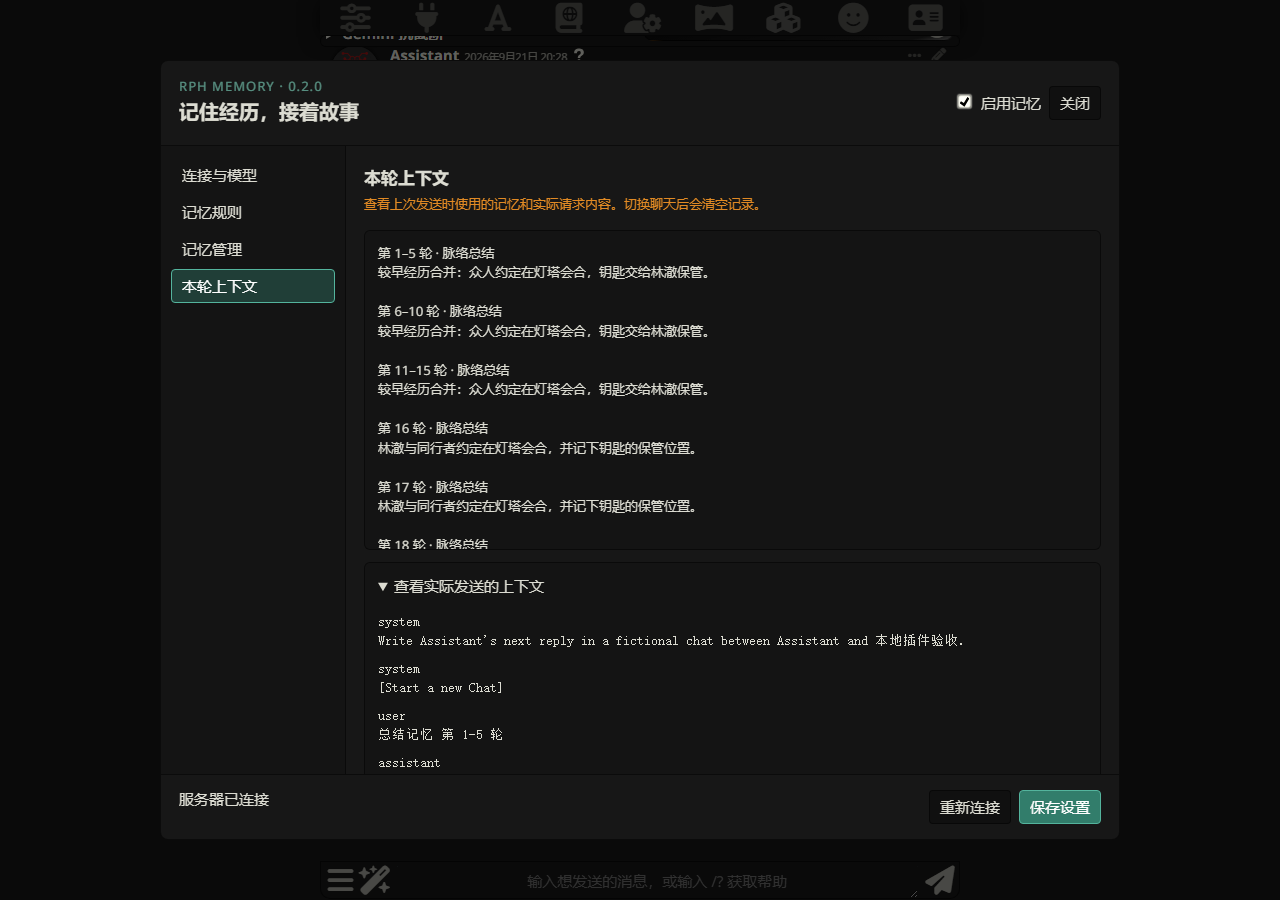
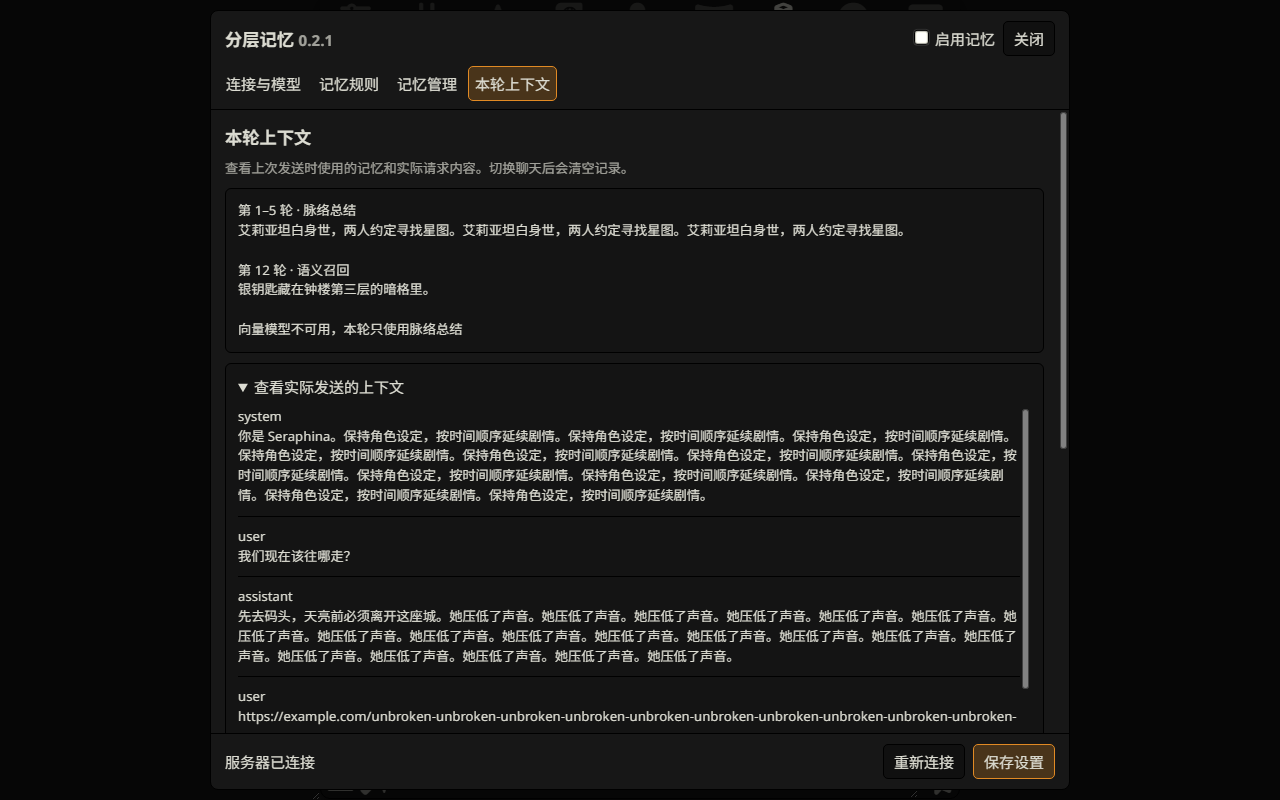
Fix settings layout in SillyTavern and on mobile (v0.2.2)

diff --git a/client/style.css b/client/style.css
@@ -1,61 +1,47 @@
-.lm-launcher { display: flex; align-items: center; gap: 10px; margin: 8px 0; }
-.lm-launcher small, #layered-memory .lm-muted, #layered-memory .lm-note, #layered-memory small { color: var(--SmartThemeQuoteColor, #aeb5bb); font-size: 13px; line-height: 1.45; }
-#layered-memory { width: min(960px, calc(100vw - 24px)); max-width: 960px; height: min(780px, calc(100dvh - 24px)); padding: 0; color: var(--SmartThemeBodyColor, #e9edf0); background: var(--SmartThemeBlurTintColor, #20252b); border: 1px solid var(--SmartThemeBorderColor, #69727b); border-radius: 8px; }
-#layered-memory::backdrop { background: rgb(0 0 0 / 55%); }
+/* 酒馆的 .menu_button 宽度是 min-content，中文会被压成一字宽，这里放开 */
+.menu_button.lm-launcher { width: auto; flex-wrap: wrap; justify-content: space-between; gap: 0 10px; text-align: start; }
+.lm-launcher small { overflow-wrap: anywhere; }
+#layered-memory { --lm-line: 1px solid var(--SmartThemeBorderColor); --lm-accent: var(--SmartThemeQuoteColor); width: min(860px, 100dvw); height: min(780px, 100dvh); max-width: none; max-height: none; padding: 0; color: var(--SmartThemeBodyColor); accent-color: var(--lm-accent); background: var(--SmartThemeBlurTintColor); backdrop-filter: blur(calc(var(--SmartThemeBlurStrength) * 2)); border: var(--lm-line); border-radius: 8px; }
+#layered-memory::backdrop { background: rgb(0 0 0 / 70%); }
 #layered-memory[open] { display: flex; flex-direction: column; }
-#layered-memory * { box-sizing: border-box; letter-spacing: 0; }
-#layered-memory button, #layered-memory input, #layered-memory select, #layered-memory textarea { font: inherit; }
-#layered-memory button { min-height: 32px; padding: 6px 10px; cursor: pointer; color: inherit; background: var(--black30a, #22272d); border: 1px solid var(--SmartThemeBorderColor, #69727b); border-radius: 4px; }
-#layered-memory button:hover, #layered-memory button:focus-visible { border-color: #73c3ae; }
-#layered-memory button:disabled { opacity: .45; cursor: default; }
-#layered-memory .lm-primary { color: #fff; background: #327d6b; border-color: #54b49d; }
-#layered-memory .lm-danger { color: #ffd7d2; border-color: #a6544d; }
-#layered-memory .lm-header, #layered-memory .lm-footer { display: flex; align-items: center; justify-content: space-between; gap: 14px; padding: 14px 18px; border-bottom: 1px solid var(--SmartThemeBorderColor, #69727b); }
-#layered-memory .lm-header h2, #layered-memory h3 { margin: 2px 0 6px; }
-#layered-memory .lm-header h2 { font-size: 20px; }
-#layered-memory h3 { font-size: 17px; }
-#layered-memory .lm-header small { color: #73c3ae; letter-spacing: .08em; }
-#layered-memory .lm-actions { display: flex; align-items: center; gap: 8px; flex-wrap: wrap; }
-#layered-memory .lm-switch, #layered-memory .lm-inline { display: inline-flex; align-items: center; gap: 6px; }
-#layered-memory .lm-switch { white-space: nowrap; }
-#layered-memory .lm-layout { display: grid; grid-template-columns: 185px minmax(0, 1fr); min-height: 0; flex: 1; }
-#layered-memory .lm-nav { display: flex; flex-direction: column; gap: 3px; padding: 12px 10px; border-right: 1px solid var(--SmartThemeBorderColor, #69727b); background: rgb(0 0 0 / 12%); }
-#layered-memory .lm-nav button { width: 100%; text-align: left; background: transparent; border-color: transparent; }
-#layered-memory .lm-nav button[aria-pressed=true] { color: #fff; background: #327d6b66; border-color: #54b49d; }
-#layered-memory .lm-content { min-width: 0; overflow: auto; padding: 18px; }
-#layered-memory .lm-content > section { max-width: 800px; margin: 0 auto; }
-#layered-memory .lm-card { margin: 12px 0; padding: 13px; border: 1px solid var(--SmartThemeBorderColor, #69727b); border-radius: 6px; background: rgb(0 0 0 / 10%); }
-#layered-memory fieldset { min-width: 0; margin: 0; padding: 13px; border: 1px solid var(--SmartThemeBorderColor, #69727b); border-radius: 6px; }
-#layered-memory legend { padding: 0 6px; font-weight: 700; }
-#layered-memory .lm-provider-grid { display: grid; grid-template-columns: repeat(2, minmax(0, 1fr)); gap: 12px; }
-#layered-memory label:not(.lm-inline):not(.lm-switch):not(.lm-mode) { display: flex; flex-direction: column; gap: 5px; margin: 10px 0; }
-#layered-memory input:not([type=checkbox]):not([type=radio]), #layered-memory select, #layered-memory textarea { width: 100%; min-width: 0; padding: 7px; color: inherit; background: var(--black30a, #22272d); border: 1px solid var(--SmartThemeBorderColor, #69727b); border-radius: 4px; }
-#layered-memory input[type=range] { accent-color: #54b49d; }
-#layered-memory output { display: inline-block; min-width: 2ch; color: #73c3ae; }
-#layered-memory .lm-mode-grid { display: grid; grid-template-columns: repeat(2, minmax(0, 1fr)); gap: 10px; }
-#layered-memory .lm-mode { display: grid; grid-template-columns: auto 1fr; gap: 4px 8px; padding: 12px; border: 1px solid var(--SmartThemeBorderColor, #69727b); border-radius: 6px; cursor: pointer; }
-#layered-memory .lm-mode span { grid-column: 2; color: var(--SmartThemeQuoteColor, #aeb5bb); font-size: 13px; }
-#layered-memory .lm-rules { display: grid; grid-template-columns: repeat(3, minmax(0, 1fr)); gap: 8px; margin: 14px 0; }
-#layered-memory .lm-rules div { display: flex; flex-direction: column; gap: 4px; padding: 10px; border-left: 3px solid #54b49d; background: rgb(0 0 0 / 12%); }
-#layered-memory .lm-rules span { color: var(--SmartThemeQuoteColor, #aeb5bb); font-size: 12px; }
-#layered-memory .lm-section-heading, #layered-memory .lm-stats, #layered-memory .lm-pagination { display: flex; align-items: center; justify-content: space-between; gap: 10px; flex-wrap: wrap; }
-#layered-memory .lm-stats { justify-content: flex-start; margin: 12px 0; }
-#layered-memory .lm-stats span { padding: 7px 10px; border: 1px solid var(--SmartThemeBorderColor, #69727b); border-radius: 4px; }
-#layered-memory .lm-stats b { color: #73c3ae; }
-#layered-memory .lm-summary { margin: 10px 0; white-space: pre-wrap; overflow-wrap: anywhere; line-height: 1.55; }
-#layered-memory details > summary { cursor: pointer; }
-#layered-memory pre, #layered-memory [data-results], #layered-memory [data-used], #layered-memory [data-preview], #layered-memory [data-errors] { max-height: 320px; margin: 8px 0; white-space: pre-wrap; overflow: auto; overflow-wrap: anywhere; font-size: 13px; line-height: 1.5; }
-#layered-memory [data-errors] { color: #f19c91; }
-#layered-memory .lm-footer { border-top: 1px solid var(--SmartThemeBorderColor, #69727b); border-bottom: 0; }
+@media (max-width: 860px) { #layered-memory { height: 100dvh; border-radius: 0; } }
+#layered-memory * { margin: 0; }
+#layered-memory :is(h2, h3) { font-size: 1.15em; }
+#layered-memory :is(small, .lm-muted) { font-size: .88em; line-height: 1.45; opacity: .7; }
+#layered-memory :is(output, b) { color: var(--lm-accent); }
+#layered-memory legend { padding: 0 6px; font-weight: bold; }
+#layered-memory summary { cursor: pointer; }
+
+/* 排版：纵向堆叠、横向一行、自适应多列 */
+#layered-memory :where(section, .lm-card, [data-memories]) { display: flex; flex-direction: column; gap: 10px; }
+#layered-memory label { display: flex; flex-direction: column; gap: 5px; }
+#layered-memory .lm-inline { flex-direction: row; align-items: center; gap: 6px; cursor: pointer; }
+#layered-memory .lm-row { display: flex; flex-wrap: wrap; align-items: center; gap: 8px; }
+#layered-memory .lm-grow { flex: 1; min-width: 0; overflow-wrap: anywhere; }
+#layered-memory .lm-grid { display: grid; grid-template-columns: repeat(auto-fit, minmax(230px, 1fr)); gap: 10px; }
+#layered-memory details { display: block; }
+#layered-memory details > :not(summary) { margin-top: 10px; }
+
+/* 窗口骨架 */
+#layered-memory .lm-bar { padding: 10px 14px; }
+#layered-memory .lm-nav { flex-wrap: nowrap; gap: 4px; padding: 0 8px 8px; }
+#layered-memory .lm-content { flex: 1; min-height: 0; overflow: auto; padding: 14px; border-block: var(--lm-line); }
+#layered-memory .lm-card { min-width: 0; padding: 12px; border: var(--lm-line); border-radius: 6px; background-color: rgb(0 0 0 / 12%); }
+
+/* 控件：复选、单选、滑条沿用酒馆原生样式 */
+#layered-memory :where(button, select, textarea, input:not([type=checkbox], [type=radio], [type=range])) { padding: 6px 10px; font: inherit; color: inherit; background-color: var(--black30a); border: var(--lm-line); border-radius: 5px; }
+#layered-memory select { padding-right: 24px; }
+#layered-memory button:enabled { cursor: pointer; }
+#layered-memory button:disabled { opacity: .45; }
+#layered-memory .lm-nav button { padding-inline: 6px; text-wrap: balance; background-color: transparent; border-color: transparent; }
+#layered-memory button:enabled:is(:hover, :focus-visible) { border-color: var(--lm-accent); }
+#layered-memory :is(.lm-primary, .lm-nav [aria-pressed=true]) { background-color: color-mix(in srgb, var(--lm-accent) 25%, transparent); border-color: var(--lm-accent); }
+#layered-memory .lm-danger { color: color-mix(in srgb, var(--warning) 70%, var(--SmartThemeBodyColor)); }
+
+/* 长文本 */
+#layered-memory :is(.lm-text, .lm-log) { white-space: pre-wrap; overflow-wrap: anywhere; line-height: 1.5; }
+#layered-memory .lm-log { max-height: min(320px, 50dvh); overflow: auto; font-size: .88em; }
+#layered-memory .lm-log:empty { display: none; }
+#layered-memory [data-preview] > p + p { margin-top: 10px; padding-top: 10px; border-top: var(--lm-line); }
+#layered-memory [data-page] { text-align: center; }
 #layered-memory [hidden] { display: none; }
-@media (max-width: 680px) {
-    #layered-memory { width: calc(100vw - 12px); height: calc(100dvh - 12px); }
-    #layered-memory .lm-header, #layered-memory .lm-footer { padding: 11px 12px; }
-    #layered-memory .lm-header h2 { font-size: 17px; }
-    #layered-memory .lm-layout { grid-template-columns: 1fr; grid-template-rows: auto minmax(0, 1fr); }
-    #layered-memory .lm-nav { flex-direction: row; overflow-x: auto; padding: 7px; border-right: 0; border-bottom: 1px solid var(--SmartThemeBorderColor, #69727b); }
-    #layered-memory .lm-nav button { width: auto; flex: 0 0 auto; text-align: center; }
-    #layered-memory .lm-content { padding: 12px; }
-    #layered-memory .lm-provider-grid, #layered-memory .lm-mode-grid, #layered-memory .lm-rules { grid-template-columns: 1fr; }
-    #layered-memory .lm-mode span { grid-column: 2; }
-}

diff --git a/shared/model.js b/shared/model.js
@@ -1,5 +1,5 @@
 export const KEY = 'layered_memory';
-export const VERSION = '0.2.1';
+export const VERSION = '0.2.2';
 export const MAIN_TYPES = new Set(['normal', 'regenerate', 'swipe', 'continue']);
 export const DEFAULTS = {
     version: 2, mode: 'classic', keep: 20, concurrency: 5, rawLimit: 5,

diff --git a/ACCEPTANCE.md b/ACCEPTANCE.md
@@ -1,5 +1,15 @@
 # 分层记忆验收报告
 
+## 0.2.2 前端修整（2026-11-15）
+
+基线为 `d18dc2f`。修复酒馆 `.menu_button` 的 `width: min-content` 将中文入口压成一字宽的问题；设置页改用顶部页签、自适应表单和长文本区域，颜色沿用酒馆主题。记忆处理、请求时序与服务器接口没有改动。
+
+- 56 项自动测试通过；复查涵盖保存失败保留草稿、保存成功清空密钥输入、记忆启停失败回退及原有记忆测试。
+- 隔离的 SillyTavern 1.19.0 加载本仓库前后端，Chromium 验证 1280×800、1024×720、390×844 和 320×640 视口，并检查 Celestial Macaron 与浅色配色。7 种视口/主题组合各检查 7 个页面状态，共 49 项，没有窗口外溢或内容区横向滚动。
+- 连接、配置读写、滑条修改、保存及恢复默认使用真实插件。记忆列表、状态、原文搜索使用样例响应；上下文预览使用样例文本，未调用真实模型或执行主生成。
+- 截图见 `evidence/launcher-*.png`、`evidence/settings-*.png`、`evidence/memories-*.png` 与 `evidence/context-desktop.png`。截图取自升版前，因此仍显示 0.2.1；同名旧截图已替换。
+- 手机是浏览器视口模拟；未验证 Android/iOS 真机、用户自定义 CSS 或真实模型效果。320 像素宽时页签允许换为两行；旧版 Safari 未支持背景模糊时只显示加深遮罩。
+
 ## 0.2.1 审查与修复（2026-11-15）
 
 基线是独立仓库 `ef860c1`，保留旧版工作目录与酒馆集成项目。本轮不部署生产实例，也未调用付费模型。
@@ -31,7 +41,7 @@
 - 原提示词和非零向量编码与固定的参考输出一致；来源无法确认的消息、用户附件和近期群聊发言不会被错误覆盖。
 - 真正启动隔离的 SillyTavern 1.19.0，加载前后端，使用真实会话及 CSRF 完成 10 项接口联测，含 40 条逐轮总结、3 条合并总结及 43 条完整备份恢复。见 `evidence/server-integration.json`。
 - Chromium 151 中完成模型列表、接口测试、保存、启用、记忆编辑和启停、文件下载/恢复、原文检索及上下文预览。真实主生成请求包含旧总结、最近原文和增强召回，原聊天保留；页面脚本错误为 0。见 `evidence/browser-check.json`。
-- 桌面 1280×900 和窄屏 390×844 的四个设置分区可切换，没有面板横向溢出。见 `evidence/settings-desktop.png`、`evidence/settings-mobile.png`、`evidence/context-desktop.png`。窄屏是浏览器模拟。
+- 桌面 1280×900 和窄屏 390×844 的四个设置分区可切换，没有面板横向溢出。该轮同名截图现已替换为 0.2.2 前端修整证据；原始检查记录见 `evidence/browser-check.json`。窄屏是浏览器模拟。
 - 强制结束并重启隔离酒馆，已交付的 8 项任务自动恢复，无需前端重新连接。见 `evidence/server-restart.json`。未保存结果的在途请求可能重复调用。
 - 记忆开关按聊天保存；后端断线仍可关闭本地注入，并提示后台停止未确认。
 - 0.1.0 数据迁移：旧来源校验通过后更换编号，保留手动编辑、禁用的合并总结和子记录关联；迁移前保存不含密钥的恢复副本。含空轮的旧库升级、暂停聊天的迁移和二次重启均通过，无需重新调用总结模型。

diff --git a/SPEC.md b/SPEC.md
@@ -1,4 +1,4 @@
-# 分层记忆 0.2.1 规格
+# 分层记忆 0.2.2 规格
 
 本项目是独立的 SillyTavern 前端扩展和服务器插件，记忆流程为两级总结加向量召回。Anima 只作为前后端安装和设置界面的参考；旧 ST-vector-memory 不作为实现基础。
 
@@ -57,10 +57,10 @@ SQLite 保存聊天快照、逐轮记忆、合并记忆、int8 max-abs 向量和
 
 ## 设置界面
 
-设置弹窗提供连接与模型、基础/增强模式、保留楼层、总结并发、原文检索开关、模型列表、接口测试、记忆列表筛选、编辑/启停/重试、备份/恢复、向量重建、重新整理、清空和本轮上下文预览。密钥输入支持保留或明确清除。布局在窄屏下切换为横向导航，所有后端错误显示在状态区，不覆盖用户原配置。
+设置弹窗提供连接与模型、基础/增强模式、保留楼层、总结并发、原文检索开关、模型列表、接口测试、记忆列表筛选、编辑/启停/重试、备份/恢复、向量重建、重新整理、清空和本轮上下文预览。密钥输入支持保留或明确清除。导航为顶部横向页签，窄屏下窗口占满全屏，所有后端错误显示在状态区，不覆盖用户原配置。
 
 ## 验收范围
 
 自动测试覆盖：固定 fixture 的十个上下文替换场景、连续发言、开场白、尾部待回复、空轮、缺总结、禁用合并记忆；来源哈希、编辑/换候选/删除、分支复用、版本冲突、任务恢复/停止/过期结果、用户隔离、密钥不回传、向量批处理和失败恢复、原文检索、Gemini 生命周期、请求旁路、备份来源校验和设置界面静态结构。
 
-0.2.1 的自动测试与范围见 [ACCEPTANCE.md](ACCEPTANCE.md)。0.2.0 曾在隔离的 SillyTavern 1.19.0 中用 Chromium 和本地模拟模型验证设置、恢复、真实主生成流程及窄屏布局；这些是历史证据。新版实际酒馆操作、手机真机、复杂世界书/正则、群聊 UI、真实模型总结质量和千轮聊天性能仍待验收。发布包不自动部署生产环境。
+0.2.2 的自动测试与范围见 [ACCEPTANCE.md](ACCEPTANCE.md)。本次在隔离的 SillyTavern 1.19.0 中用 Chromium 验证了设置保存、桌面与手机模拟视口、多种主题和长文本布局；记忆列表与上下文使用样例数据。0.2.0 的真实主生成、恢复与模型联测属于历史证据。手机真机、复杂世界书/正则、群聊 UI、真实模型总结质量和千轮聊天性能仍待验收。发布包不自动部署生产环境。

diff --git a/README.md b/README.md
@@ -1,8 +1,8 @@
 # 分层记忆
 
-独立 SillyTavern 扩展，当前源码版本为 **0.2.1**。酒馆前端负责设置、交付聊天及注入记忆；酒馆服务器插件负责总结、合并、索引、检索和持久任务。记忆处理采用两级总结流程，设置界面参考 Anima 的前后端分工。
+独立 SillyTavern 扩展，当前源码版本为 **0.2.2**。酒馆前端负责设置、交付聊天及注入记忆；酒馆服务器插件负责总结、合并、索引、检索和持久任务。记忆处理采用两级总结流程，设置界面参考 Anima 的前后端分工。
 
-0.2.1 修复回复完成判定、隐藏消息记忆、切换聊天时的异步操作、分支继承、思考过滤、备份校验和后台任务恢复，56 项自动测试通过。完整行为见 [SPEC.md](SPEC.md)，验证结果见 [ACCEPTANCE.md](ACCEPTANCE.md)。本轮使用本地模拟服务和自动测试；下方历史浏览器证据来自 0.2.0，不能替代新版的实际酒馆、真实模型和手机验收。
+0.2.2 修复酒馆扩展栏入口一字一行的问题，整理设置页、手机布局和长文本显示，保留 0.2.1 的记忆与后台修复。56 项自动测试通过；在隔离的 SillyTavern 1.19.0 中验证了桌面、手机模拟视口和多种主题。完整行为见 [SPEC.md](SPEC.md)，验证范围与限制见 [ACCEPTANCE.md](ACCEPTANCE.md)。下方截图来自本次前端修整，截图时版本号尚未升至 0.2.2。
 
 ![记忆设置](https://raw.githubusercontent.com/ShirahaTobisa/ST-Layered-Memory/main/evidence/settings-desktop.png)
 
@@ -10,7 +10,7 @@
 
 安装流程参考 [Anima 使用说明](https://gcn02iwpisfi.feishu.cn/wiki/Ga4uwBXpaimRfrkQnMtcbKvGnVd)：**前端在酒馆界面安装，后端在运行酒馆的服务器上安装，两部分都要装。** 本项目两部分共用同一个仓库，各安装一份；后端随酒馆进程启动。
 
-需要 SillyTavern **1.19.0**（本版验证基准）、Git 和 Node **22.13 以上**。本版在 Node 22.22.2 验证。版本要求针对运行酒馆的服务器；远程使用时，手机或浏览器所在的电脑无需安装 Node。
+需要 SillyTavern **1.19.0**（本版验证基准）、Git 和 Node **22.13 以上**。本次自动测试使用 Node 24.21.0。版本要求针对运行酒馆的服务器；远程使用时，手机或浏览器所在的电脑无需安装 Node。
 
 ### 1. 安装服务器插件
 
